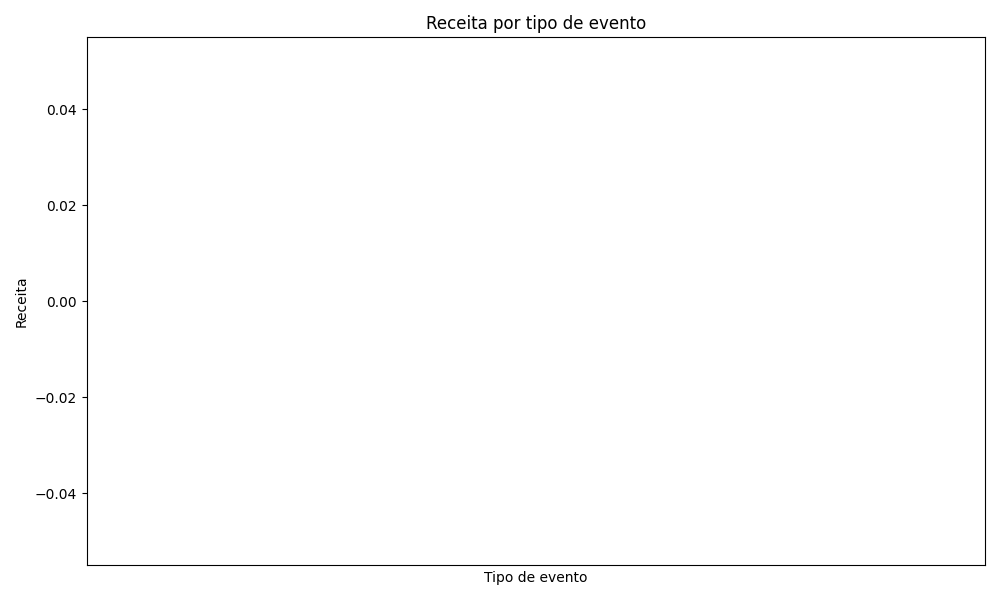
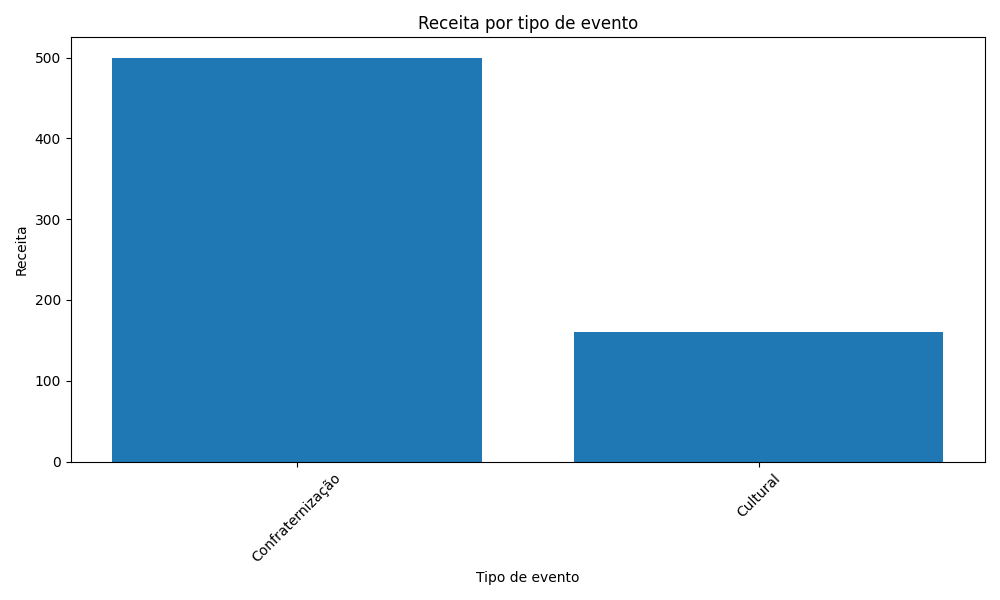
povoando bd e arrumando algumas rotas

diff --git a/templates/html/pages/perfil.html b/templates/html/pages/perfil.html
@@ -26,7 +26,7 @@
                     </div>
 
                     <div class="d-flex justify-content-between align-items-center">
-                        <a id="redirection" href="{{ url_for('dashboard_cliente') }}" class="btn btn-secondary">Voltar</a>
+                        <a id="redirection" href="{{ url_for('dashboard') }}" class="btn btn-secondary">Voltar</a>
                         <button type="submit" class="btn btn-login">Atualizar</button>
                     </div>
                 </fieldset>

diff --git a/instance/povoar.py b/instance/povoar.py
@@ -1,0 +1,126 @@
+import sqlite3
+from faker import Faker
+import random
+import os
+
+fake = Faker()
+
+#db_path = os.path.abspath('instance/salao_festas.db')
+
+#conn = sqlite3.connect(db_path)
+#cursor = conn.cursor()
+
+conn = sqlite3.connect(r'C:\Users\geova\Documents\UFOP\4° período\salao-festas\salao-festas\instance\salao_festas.db')
+#conn = sqlite3.connect('/salao-festas/instance/salao_festas.db')
+cursor = conn.cursor()
+
+# Função para obter valores já existentes em outras tabelas (ex.: CPF de clientes)
+def get_existing_cpfs():
+    cursor.execute('SELECT cpf FROM cliente')
+    return [row[0] for row in cursor.fetchall()]
+
+def get_existing_eventos():
+    cursor.execute('SELECT data, horario FROM evento')
+    return [(row[0], row[1]) for row in cursor.fetchall()]
+
+def get_existing_tipo_mobilia():
+    cursor.execute('SELECT tipo_mobilia FROM mobilia')
+    return [row[0] for row in cursor.fetchall()]
+
+def inserir_clientes(n):
+    for _ in range(n):
+        cpf = str(fake.random_int(min=10000000000, max=99999999999))  # 11 dígitos como string
+        formatted_cpf = f"{cpf[:3]}.{cpf[3:6]}.{cpf[6:9]}-{cpf[9:]}"
+        nome_cliente = fake.name()
+        celular = fake.phone_number()
+        endereco = fake.address().replace('\n', ', ')
+        cursor.execute('INSERT INTO cliente (cpf, nome_cliente, celular, endereco) VALUES (?, ?, ?, ?)',
+                       (formatted_cpf, nome_cliente, celular, endereco))
+    conn.commit()
+
+def inserir_visitacoes(n):
+    cpfs = get_existing_cpfs()
+    for _ in range(n):
+        data = fake.date_between(start_date='today', end_date='+30d')
+        horario = fake.time(pattern="%H:%M")
+        cliente_cpf = random.choice(cpfs)
+        cursor.execute('INSERT INTO visitacao (data, horario, cliente_cpf) VALUES (?, ?, ?)',
+                       (data, horario, cliente_cpf))
+    conn.commit()
+
+def inserir_eventos(n):
+    cpfs = get_existing_cpfs()
+    for _ in range(n):
+        data = fake.date_between(start_date='today', end_date='+30d')
+        horario = fake.time(pattern="%H:%M")
+        nome_evento = fake.sentence(nb_words=3)
+        tipo = random.choice(['Casamento', 'Aniversário', 'Corporativo', 'Formatura', 'Debutante', 'Batizado', 'Confraternização', 'Cultural', 'Outros'])
+        cliente_cpf = random.choice(cpfs)
+        cursor.execute('INSERT INTO evento (data, horario, nome_evento, tipo, cliente_cpf) VALUES (?, ?, ?, ?, ?)',
+                       (data, horario, nome_evento, tipo, cliente_cpf))
+    conn.commit()
+
+def inserir_pagamentos(n):
+    eventos = get_existing_eventos()
+    for _ in range(n):
+        if not eventos:
+            break
+        evento_data, evento_horario = random.choice(eventos)
+        forma_pagto = random.choice(['Cartão', 'Dinheiro'])
+        qtd_parcelas = random.randint(1, 3)
+        valor = round(random.uniform(10.0, 1000.0), 2)
+        data_pagto = fake.date_this_month()
+        cursor.execute('INSERT INTO pagamento (forma_pagto, qtd_parcelas, evento_data, evento_horario, valor, data_pagto) VALUES (?, ?, ?, ?, ?, ?)',
+                       (forma_pagto, qtd_parcelas, evento_data, evento_horario, valor, data_pagto))
+    conn.commit()
+
+def inserir_mobilia(n):
+    for _ in range(n):
+        tipo_mobilia = random.choice(['Mesa', 'Cadeira', 'Sofá', 'Mesa de Centro', 'Mesas de Buffet', 'Banco', 'Cadeira de Madeira', 'Cadeira Estofada', 'Tabela de Doces', 'Tenda', 'Palco', 'Estrado', 'Carro de Apoio', 'Parques Infantis', 'Brinquedos', 'Mesa de Som', 'Iluminação', 'Decoração', 'Mesa para Drinks', 'Quiosque'
+])
+        quantidade = random.randint(1, 100)
+        valor = round(random.uniform(5.0, 500.0), 2)
+        cursor.execute('INSERT INTO mobilia (tipo_mobilia, quantidade, valor) VALUES (?, ?, ?)',
+                       (tipo_mobilia, quantidade, valor))
+    conn.commit()
+
+def inserir_clientes_aluga_mobilia(qtd):
+    lista_cpfs = get_existing_cpfs()
+    for _ in range(qtd):
+        cliente_cpf = random.choice(lista_cpfs)
+        tipo_mobilia = random.choice(['Cadeiras', 'Mesas', 'Louças'])
+        qtd_alugada = random.randint(1, 10)
+        valor = random.uniform(50, 500)
+        data_aluguel = fake.date_this_year()
+        
+        # Verificar se já existe essa combinação de cliente e mobília
+        cursor.execute('SELECT * FROM cliente_aluga_mobilia WHERE cliente_cpf = ? AND tipo_mobilia = ?', (cliente_cpf, tipo_mobilia))
+        resultado = cursor.fetchone()
+        
+        if resultado:
+            print(f"Combinação existente para CPF {cliente_cpf} e tipo de mobília {tipo_mobilia}. Ignorando inserção.")
+        else:
+            cursor.execute(
+                'INSERT INTO cliente_aluga_mobilia (cliente_cpf, tipo_mobilia, qtd_alugada, valor, data_aluguel) VALUES (?, ?, ?, ?, ?)',
+                (cliente_cpf, tipo_mobilia, qtd_alugada, valor, data_aluguel)
+            )
+            print(f"Inserido: CPF {cliente_cpf}, Tipo de mobília: {tipo_mobilia}")
+
+    conn.commit()
+def inserir_parceiros(n):
+    for _ in range(n):
+        nome = fake.name()
+        celular = fake.phone_number()
+        cursor.execute('INSERT INTO parceiro (nome, celular) VALUES (?, ?)', (nome, celular))
+    conn.commit()
+
+# Preenchimento das tabelas
+inserir_clientes(25)
+inserir_parceiros(10)
+inserir_mobilia(10)
+inserir_visitacoes(25)
+inserir_eventos(25)
+inserir_pagamentos(25)
+inserir_clientes_aluga_mobilia(25)
+
+conn.close()

diff --git a/app.py b/app.py
@@ -388,6 +388,7 @@ def novo_agendamento():
                 cursor.execute('INSERT INTO visitacao (data, horario, cliente_cpf) VALUES (?, ?, ?)', (data, horario, cpf))
                 conn.commit()
                 flash('Agendamento criado com sucesso!', 'success')
+                return redirect(url_for('agendamentos_cliente'))
         except IntegrityError as e:
             flash(str(e), 'danger')
             return render_template('html/pages/cliente/formulario-agendamento.html')
@@ -1151,5 +1152,7 @@ def gerar_relatorio_pagamentos():
     buffer.seek(0)
     return send_file(buffer, as_attachment=True, download_name='relatorio_pagamentos.pdf', mimetype='application/pdf')
 
+
 if __name__ == '__main__':
     app.run(debug=True)
+
